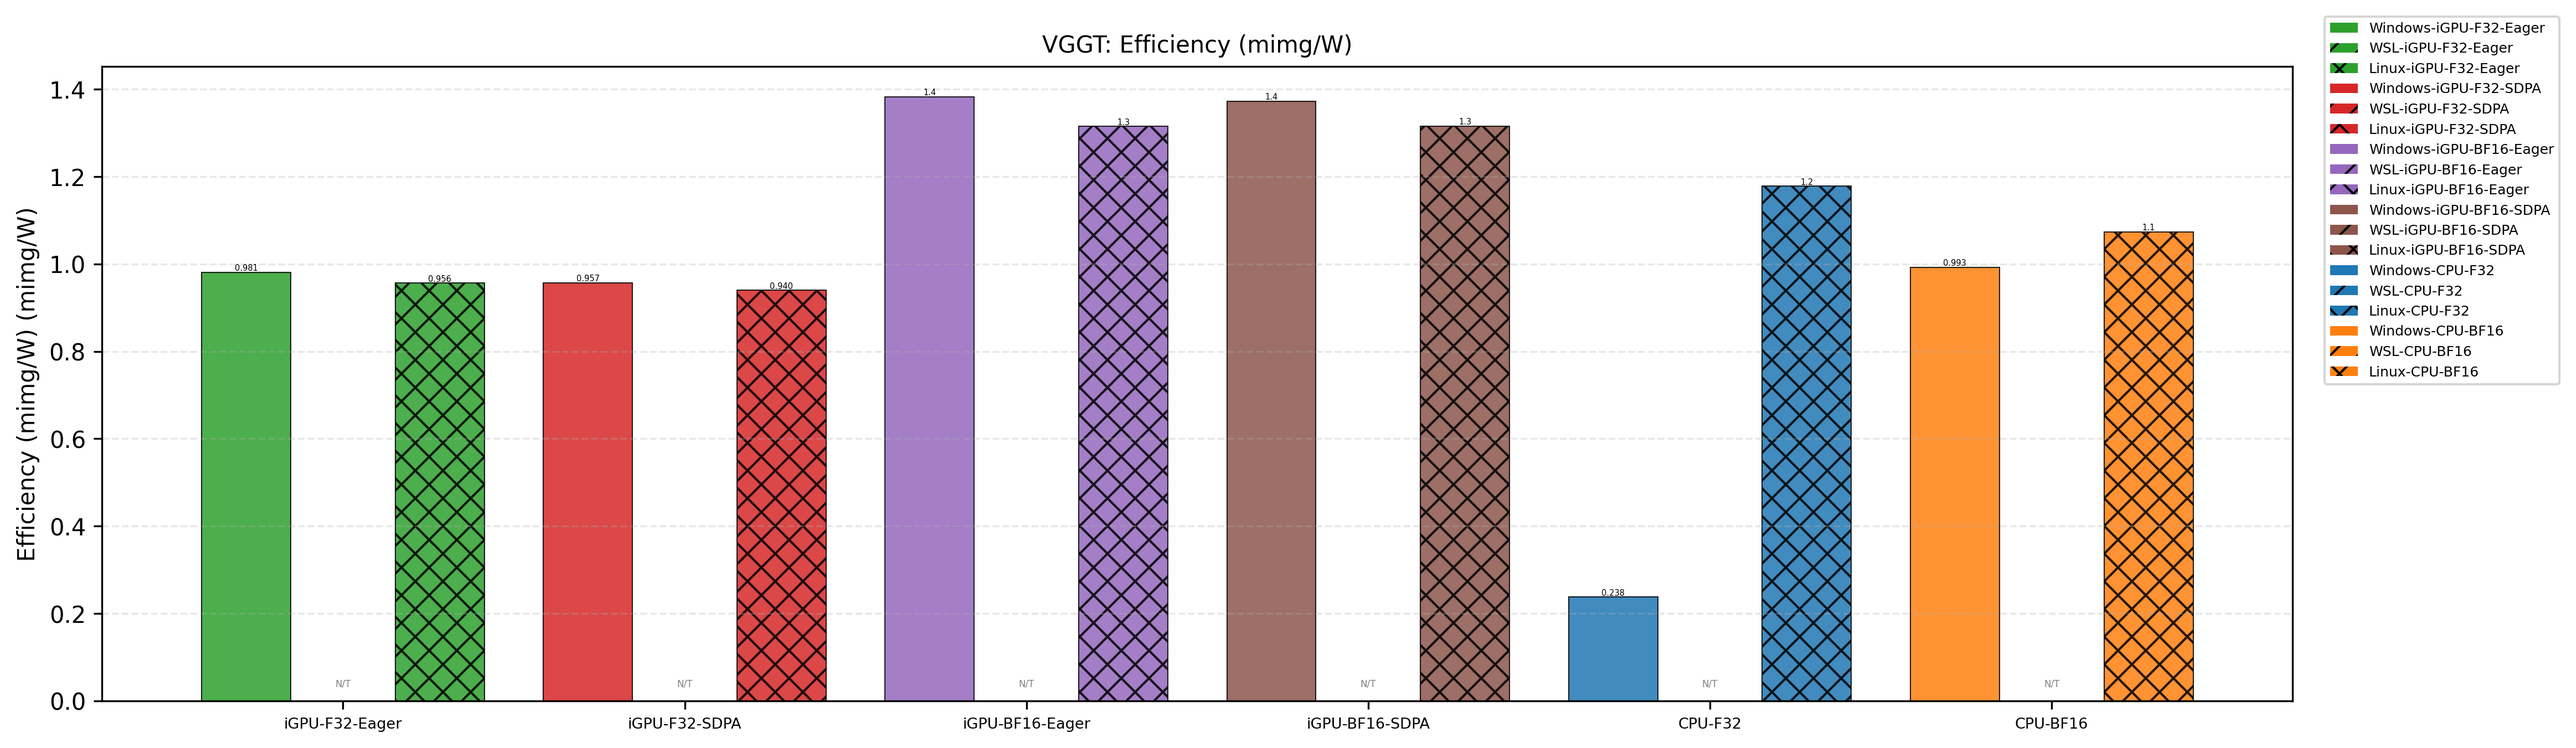
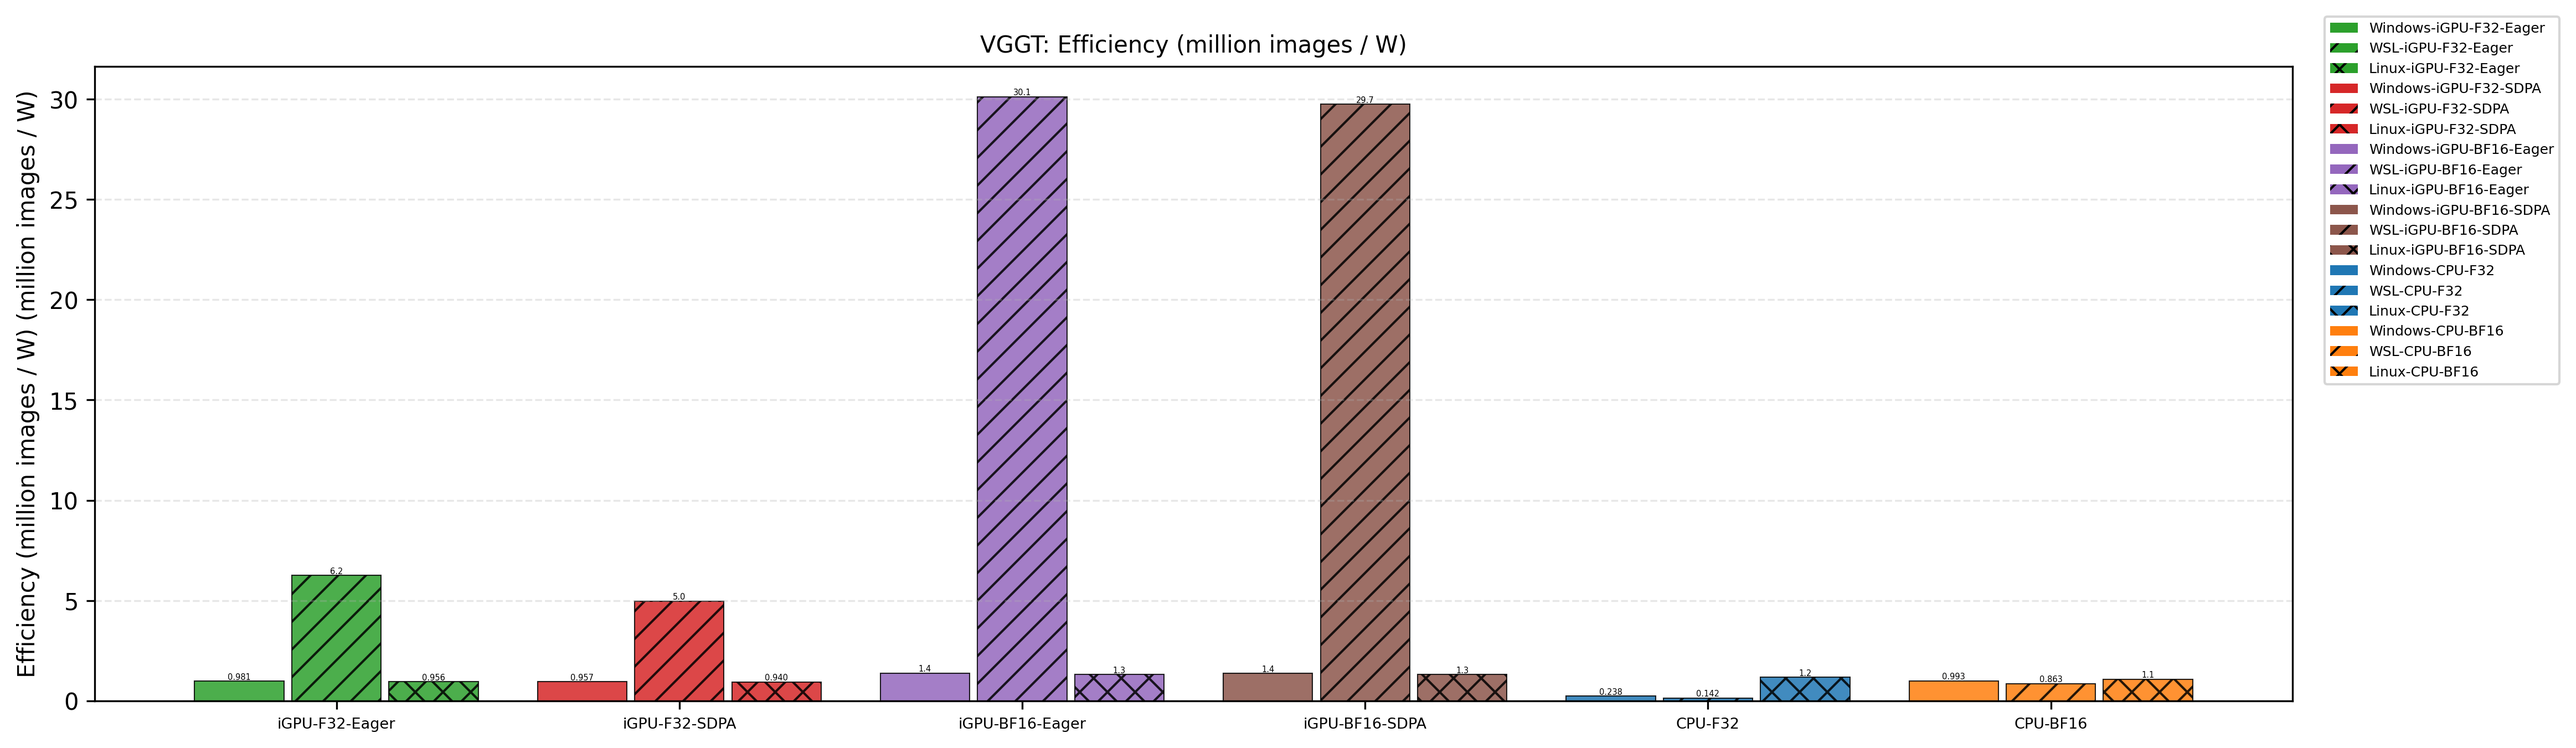
feat(benchmarks): implement efficiency metric calculation and update profiling data

diff --git a/benchmarks/generate_comparison_charts.py b/benchmarks/generate_comparison_charts.py
@@ -235,7 +235,7 @@ def plot_vggt():
                 'cpu_float32_none': 'CPU-F32', 'cpu_bfloat16_none': 'CPU-BF16'}
 
     metrics = [('Latency (ms)', 'ms'), ('Throughput (img/s)', 'img/s'), ('Avg Power (W)', 'W'),
-               ('Energy per Inference (J)', 'J'), ('Peak Memory (GB)', 'GB'), ('Efficiency (mimg/W)', 'mimg/W')]
+               ('Energy per Inference (J)', 'J'), ('Peak Memory (GB)', 'GB'), ('Efficiency (million images / W)', 'million images / W')]
 
     # Part 3 style: distinct color per config, hatch per environment
     cfg_color_map = {
@@ -281,7 +281,7 @@ def plot_vggt():
                for cfg in VGGT_CFGS for env in envs
                if f'{env}-{cfg_disp.get(cfg, cfg)}' in seen]
         plot_bars(ax, groups, labels, f'{metric} ({unit})', f'VGGT: {metric}', leg, fig_w=14, fig_h=4.5)
-        fname_base = metric.replace(' (mimg/W)', '').replace(' (', '_').replace(')', '').replace('/', '_').lower()
+        fname_base = metric.replace(' (million images / W)', '').replace(' (', '_').replace(')', '').replace('/', '_').lower()
         fname = f'vggt_{sanitize(fname_base)}.png'
         fig.savefig(output_dir / fname, dpi=300, bbox_inches='tight')
         plt.close(fig)

diff --git a/benchmarks/comprehensive_profile_vggt.py b/benchmarks/comprehensive_profile_vggt.py
@@ -621,10 +621,13 @@ def run_wsl_host(config, args):
                 pwr_duration_s = end_p - start_p
                 energy_per_step_j = energy_j / max(1, config["execution"]["passes"]["power"]["num_test"])
                 avg_w_adjusted = max(0, avg_w - idle_power)
+                batch_throughput_img_per_sec = res.get("latency", {}).get("batch_throughput_img_per_sec", 0)
+                img_per_sec_watt = batch_throughput_img_per_sec / avg_w_adjusted if avg_w_adjusted > 0 else 0
 
                 res["power_energy"]["avg_total_adjusted_w"] = avg_w_adjusted
                 res["power_energy"]["avg_idle_w"] = round(idle_power, 2)
                 res["power_energy"]["energy_per_inference_j"] = energy_per_step_j
+                res["power_energy"]["img_per_sec_watt"] = img_per_sec_watt
                 res["power_energy"]["raw_energy_j"] = energy_j
                 res["power_energy"]["measurement_mode"] = "RAPL_Windows_WSL"
                 res["power_energy"]["note"] = f"Integrated from Host (dur: {pwr_duration_s:.2f}s, idle: {idle_power:.2f}W)"

diff --git a/docs/Profiling/result.md b/docs/Profiling/result.md
@@ -45,35 +45,35 @@
 
 ## 2. VGGT
 
-!!! warning "Incomplete Data"
-    iGPU results on Windows and WSL are incomplete. BF16 iGPU failed on both platforms (`RuntimeError: Input type (float) and bias type (c10::BF16) should be the same`). SDPA was not tested on Windows/WSL. iGPU-F32-Eager results on Windows/WSL were removed due to suspected data quality issues.
+!!! note "Data note"
+    Windows and WSL iGPU results are now included. WSL efficiency is computed from throughput divided by adjusted power.
 
-| Configuration | Environment | Latency (ms) | Throughput (img/s) | Avg Power (W) | Energy per Inference (J) | Peak Memory (GB) | Efficiency (img/W) |
+| Configuration | Environment | Latency (ms) | Throughput (img/s) | Avg Power (W) | Energy per Inference (J) | Peak Memory (GB) | Efficiency (million images / W) |
 |---|---|---|---|---|---|---|---|
 | **CPU-F32** | Windows-PyTorch | 192306.4 | 0.0104 | 43.73 | 9041.0 | 6.20 | 0.000238 |
-| | WSL-PyTorch | 327644.5 | 0.0061 | 43.05 | 17067.2 | 5.27 | - |
+| | WSL-PyTorch | 327644.5 | 0.0061 | 43.05 | 17067.2 | 5.27 | 0.000142 |
 | | Linux-PyTorch | 32687.5 | 0.0612 | 51.92 | 1755.9 | 6.14 | 0.0012 |
 | **CPU-BF16** | Windows-PyTorch | 39947.1 | 0.0501 | 50.43 | 2170.3 | 6.65 | 0.000993 |
-| | WSL-PyTorch | 54331.9 | 0.0368 | 42.65 | 2808.3 | 4.88 | - |
+| | WSL-PyTorch | 54331.9 | 0.0368 | 42.65 | 2808.3 | 4.88 | 0.000863 |
 | | Linux-PyTorch | 35774.6 | 0.0559 | 52.07 | 1917.4 | 5.29 | 0.0011 |
-| **iGPU-F32-Eager** | Windows-PyTorch | - | - | - | - | - | - |
-| | WSL-PyTorch | - | - | - | - | - | - |
+| **iGPU-F32-Eager** | Windows-PyTorch | 42494.5 | 0.0471 | 47.96 | 2179.6 | 5.19 | 0.0010 |
+| | WSL-PyTorch | 7119.6 | 0.2809 | 44.95 | 371.6 | 5.19 | 0.006249 |
 | | Linux-PyTorch | 43262.8 | 0.0462 | 48.34 | 2166.6 | 5.19 | 0.000956 |
 | **iGPU-F32-SDPA** | Linux-PyTorch | 45133.0 | 0.0443 | 47.16 | 2221.3 | 5.19 | 0.000940 |
-| | Windows-PyTorch | - | - | - | - | - | - |
-| | WSL-PyTorch | - | - | - | - | - | - |
+| | Windows-PyTorch | 44518.8 | 0.0449 | 46.95 | 2243.8 | 5.19 | 0.0010 |
+| | WSL-PyTorch | 9051.7 | 0.2210 | 44.39 | 465.2 | 5.19 | 0.004978 |
 | **iGPU-BF16-Eager** | Linux-PyTorch | 30321.9 | 0.0660 | 50.15 | 1585.1 | 2.71 | 0.0013 |
-| | Windows-PyTorch | - | - | - | - | - | - |
-| | WSL-PyTorch | - | - | - | - | - | - |
+| | Windows-PyTorch | 29950.1 | 0.0668 | 48.28 | 1544.8 | 2.71 | 0.0014 |
+| | WSL-PyTorch | 1596.6 | 1.2526 | 41.58 | 79.1 | 2.84 | 0.030124 |
 | **iGPU-BF16-SDPA** | Linux-PyTorch | 30303.0 | 0.0660 | 50.17 | 1580.6 | 2.71 | 0.0013 |
-| | Windows-PyTorch | - | - | - | - | - | - |
-| | WSL-PyTorch | - | - | - | - | - | - |
+| | Windows-PyTorch | 29963.6 | 0.0667 | 48.62 | 1545.1 | 2.71 | 0.0014 |
+| | WSL-PyTorch | 1558.2 | 1.2835 | 43.15 | 78.6 | 2.84 | 0.029747 |
 
 ### Charts
 
 ![VGGT Latency](../assets/profiling/vggt_latency_ms.png)
 
-![VGGT Throughput](../assets/profiling/vggt_throughput_img_per_s.png)
+![VGGT Throughput](../assets/profiling/vggt_throughput_img_s.png)
 
 ![VGGT Avg Power](../assets/profiling/vggt_avg_power_w.png)
 
@@ -81,7 +81,7 @@
 
 ![VGGT Peak Memory](../assets/profiling/vggt_peak_memory_gb.png)
 
-![VGGT Efficiency](../assets/profiling/vggt_efficiency_img_per_w.png)
+![VGGT Efficiency](../assets/profiling/vggt_efficiency.png)
 
 ---
 
